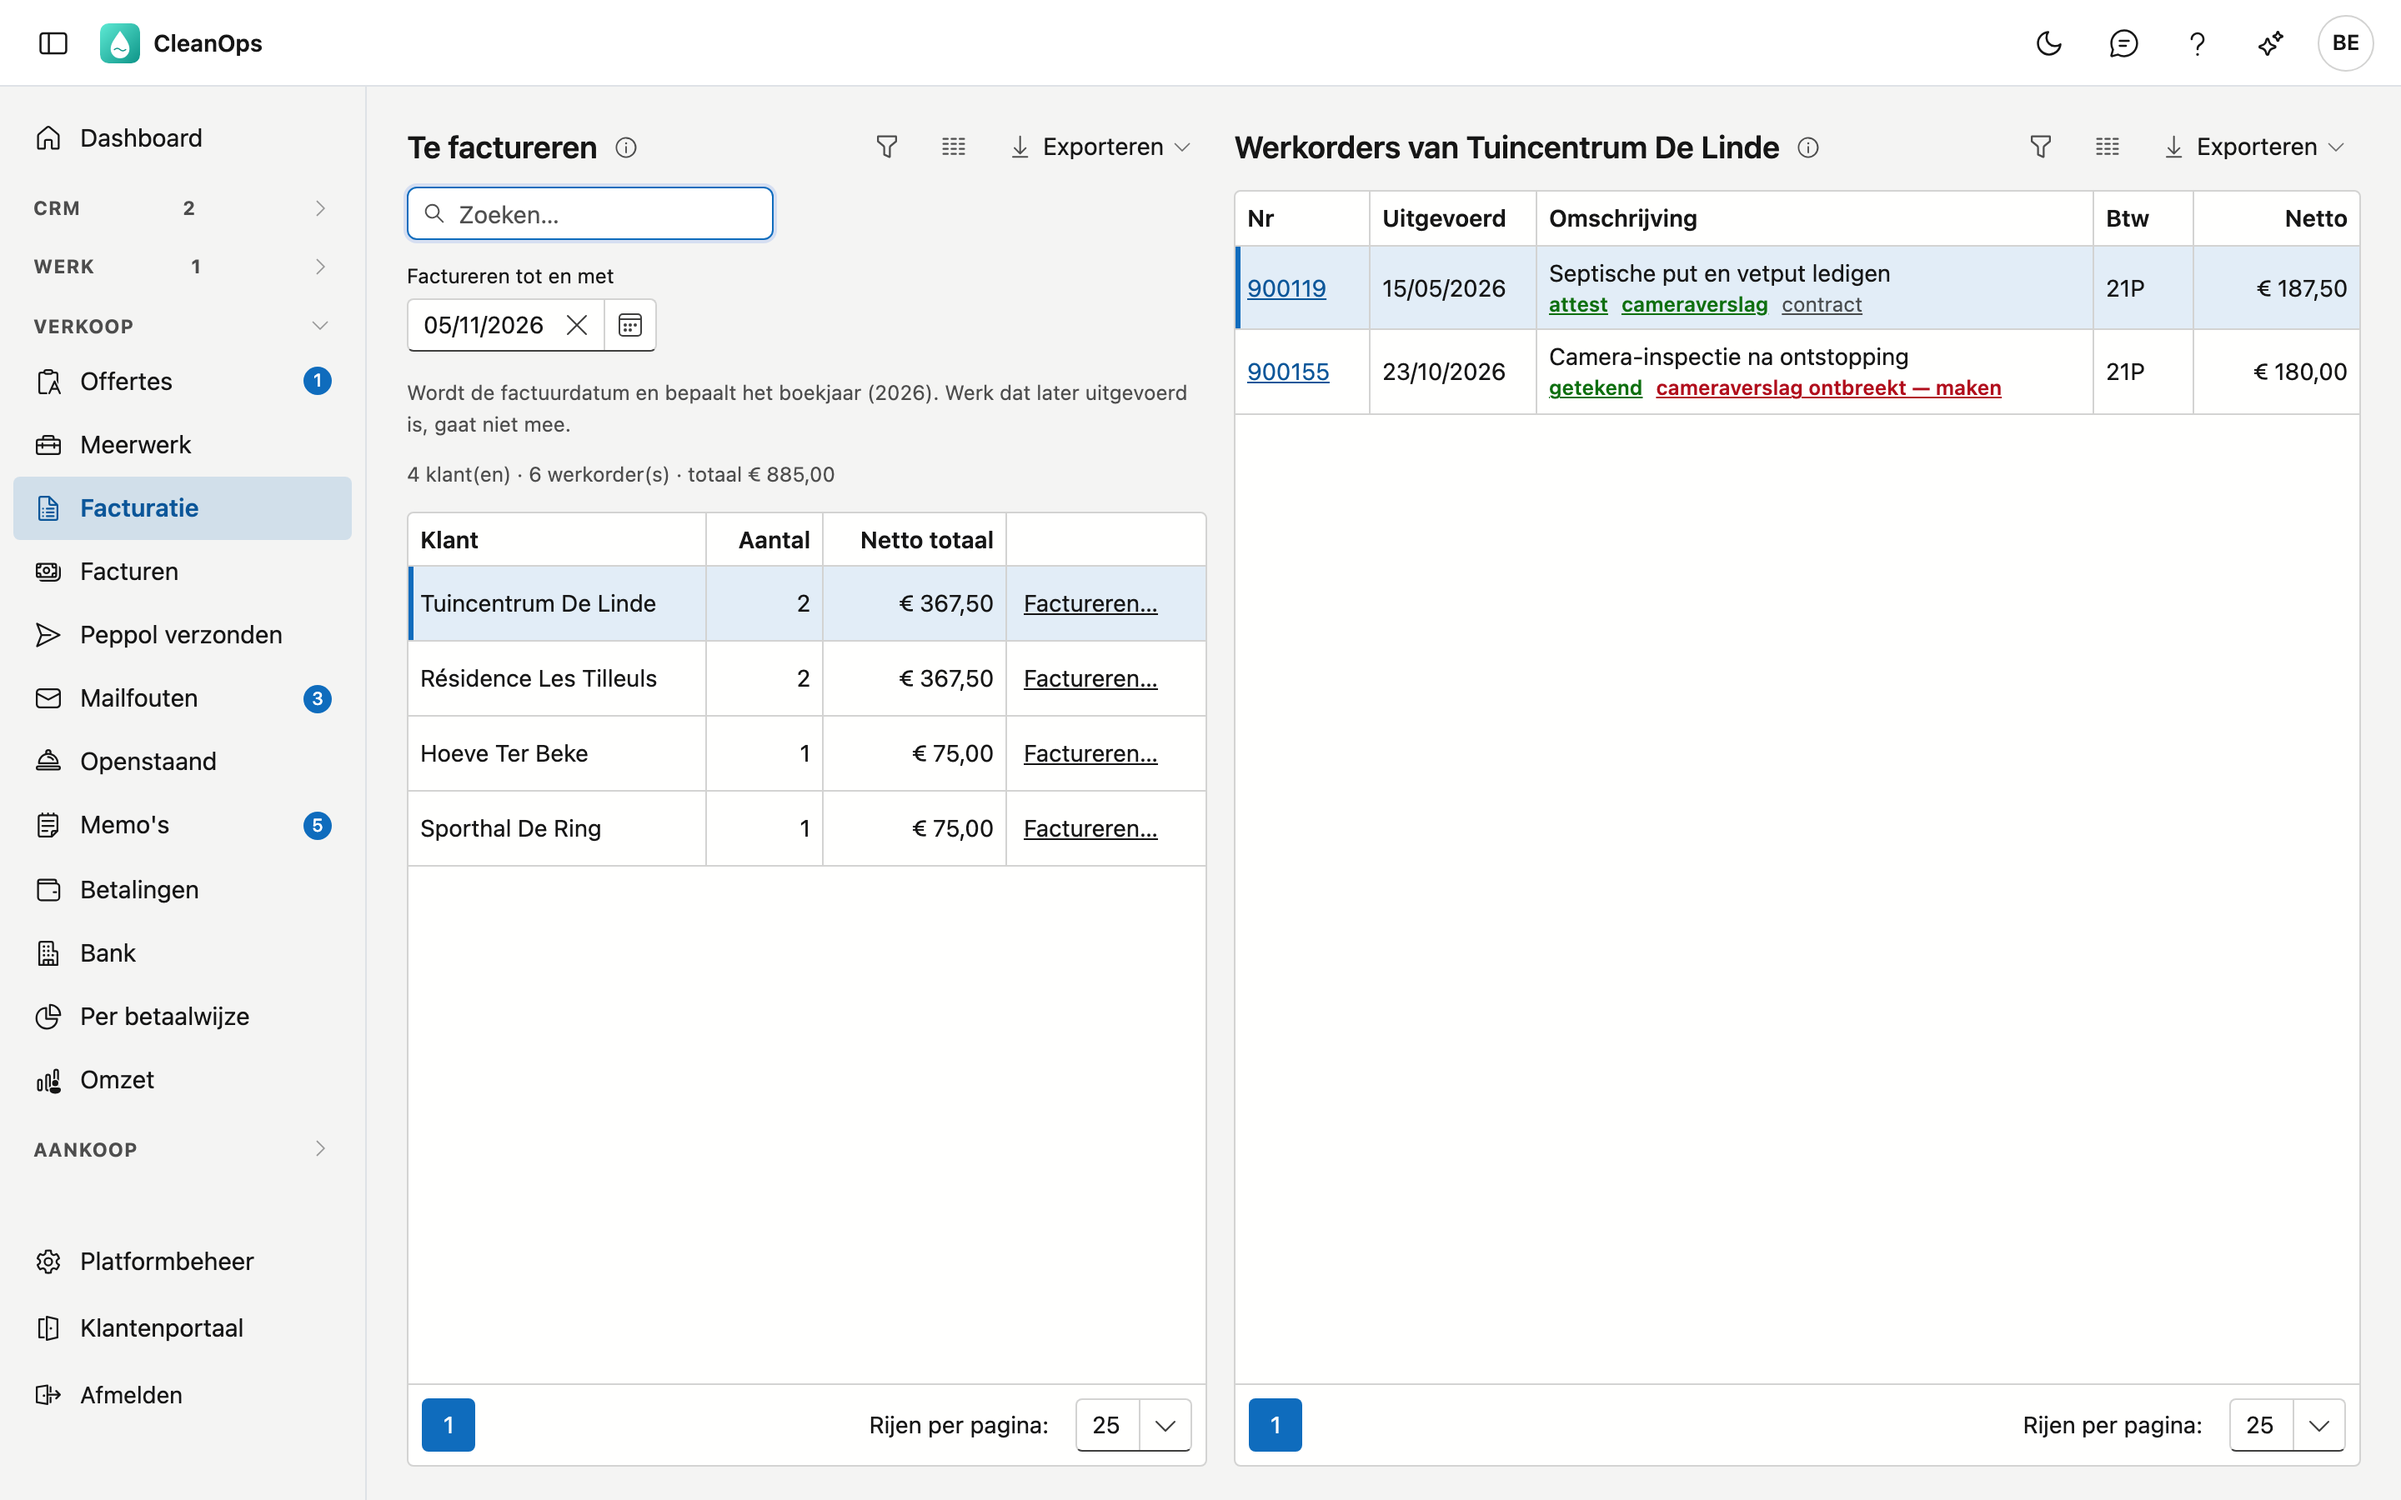
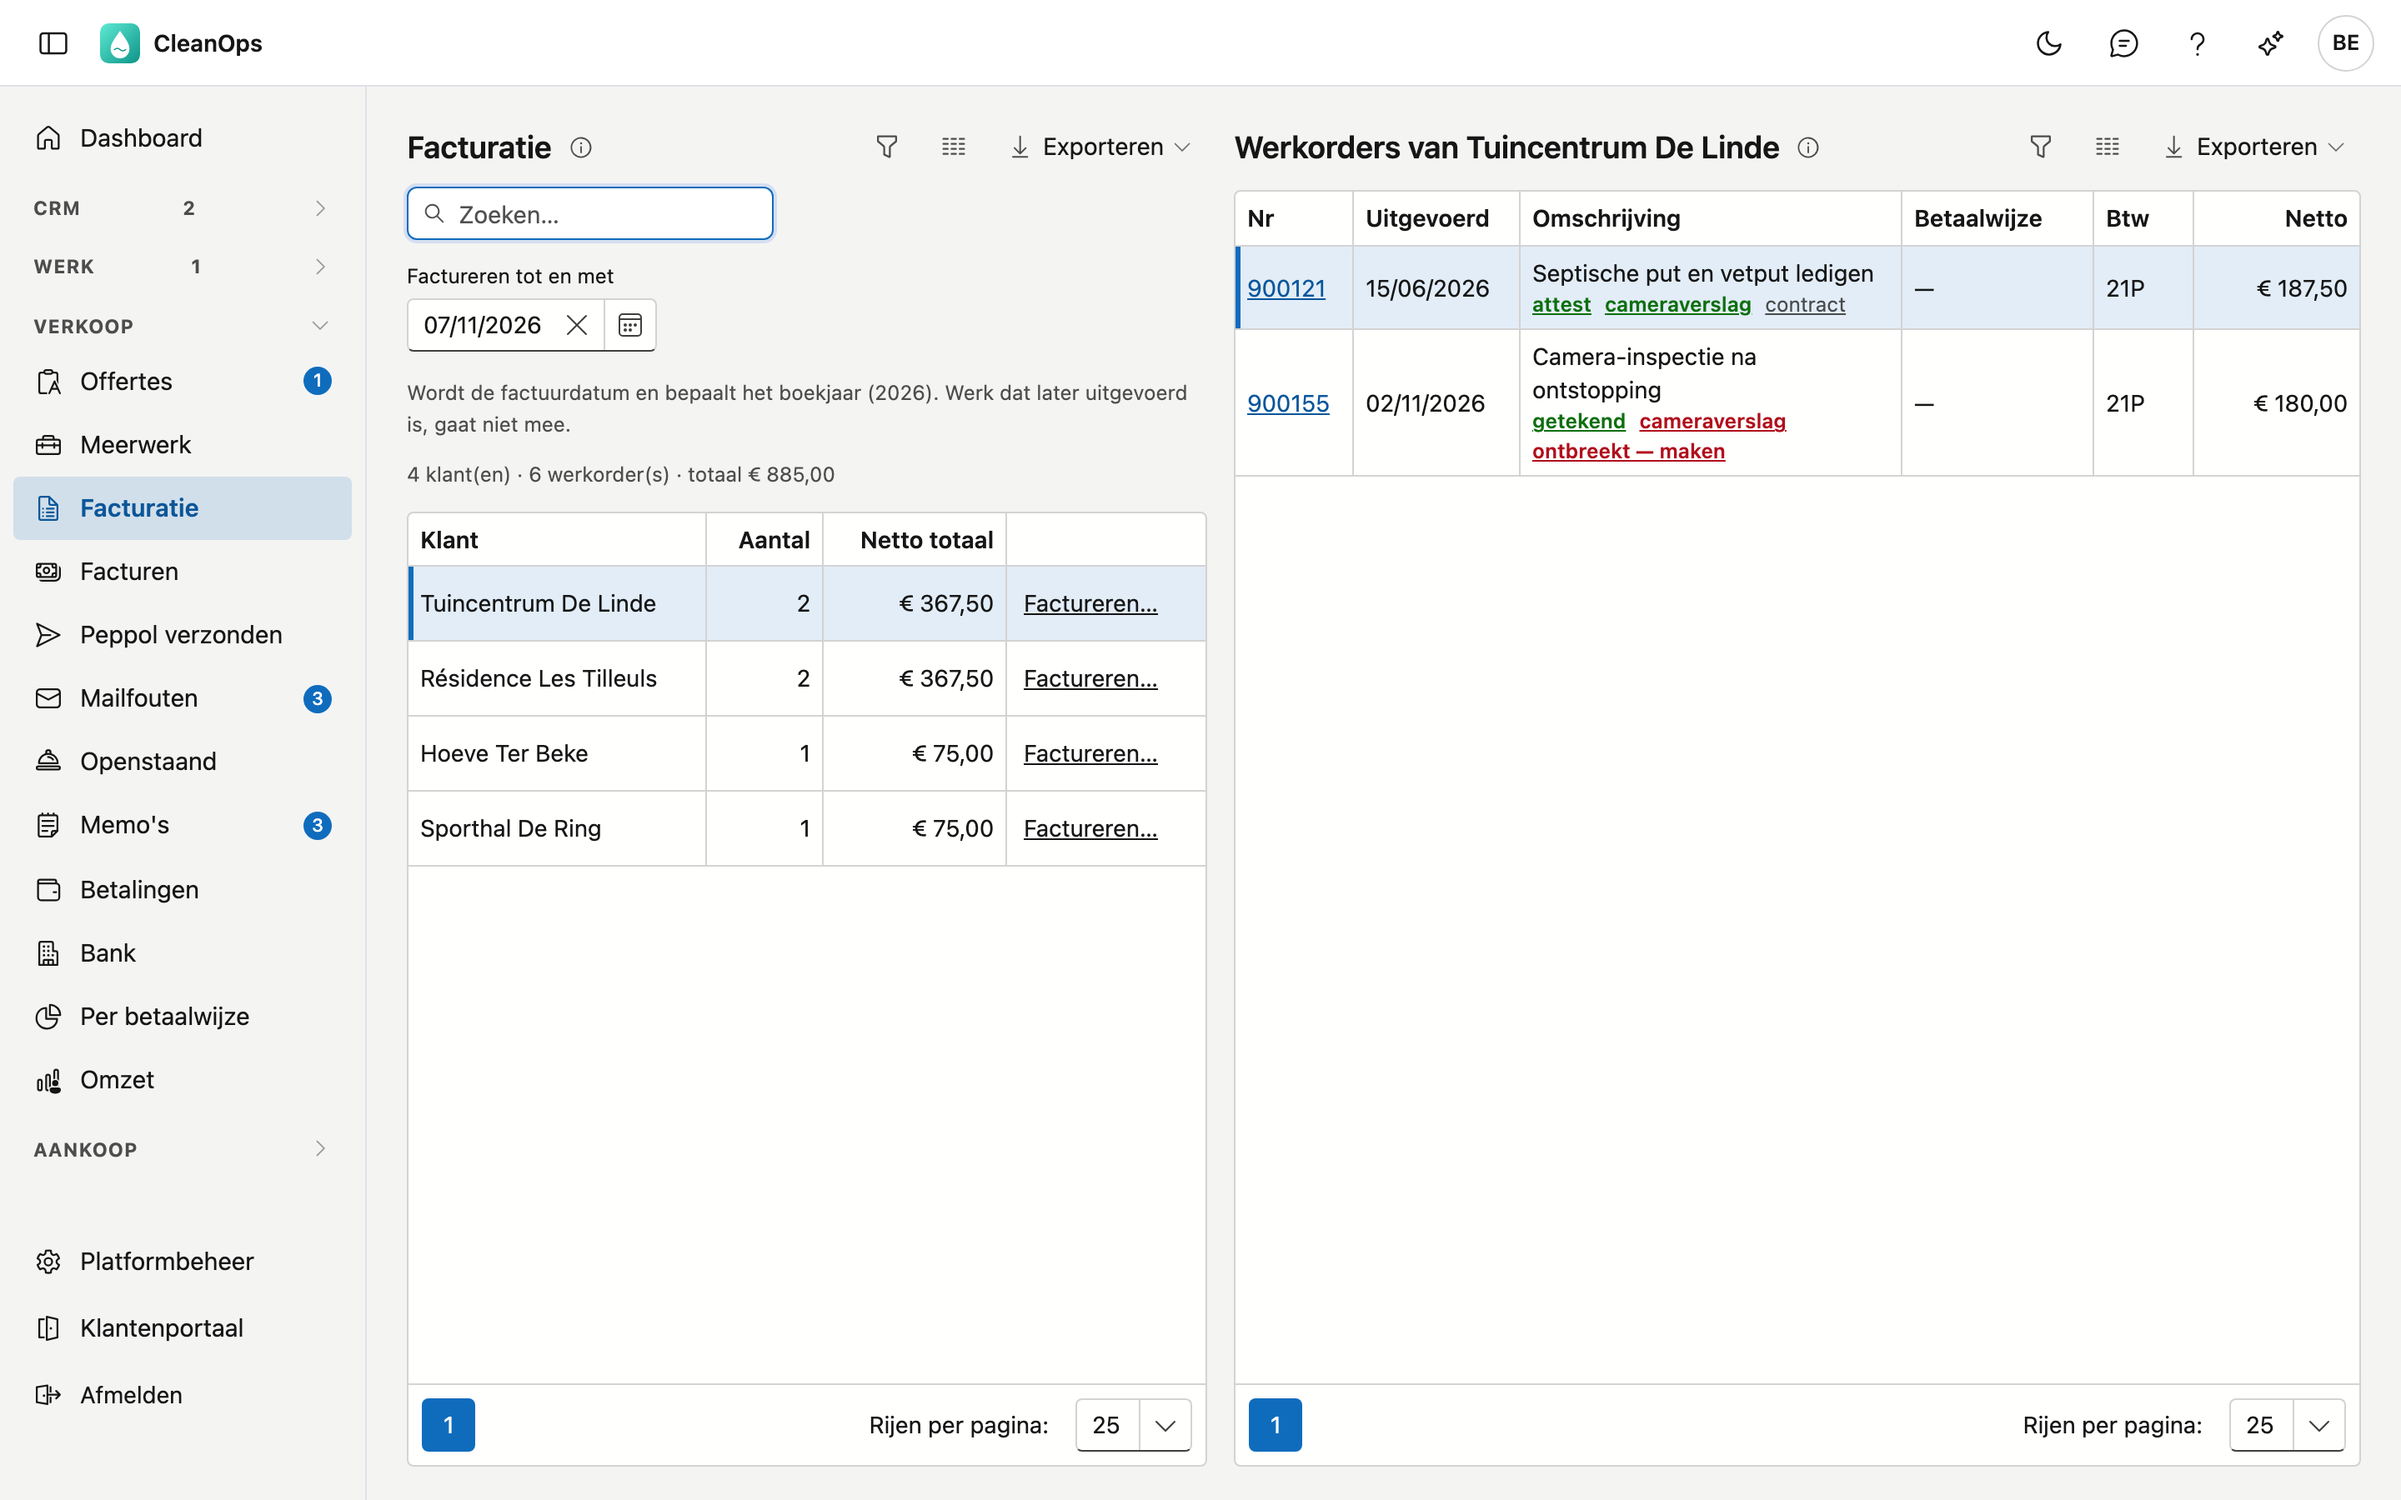
Facturatie: de lijst heet Facturatie zoals het menu, en rechts de kolom Betaalwijze (feedback prospect), NL en FR

diff --git a/docs/facturatie.fr.md b/docs/facturatie.fr.md
@@ -8,7 +8,7 @@ Sur Facturation, vous facturez le travail exécuté. Vous voyez par client les o
 qui va sur la facture et vous la comptabilisez. La facture reçoit immédiatement son numéro, son échéance et sa communication
 structurée.
 
-![La liste À facturer de la démo : à gauche par client les colonnes Ordres et Total net avec le bouton Facturer…, à droite les ordres du client choisi](images/facturatie-lijst-fr.png "Facturation")
+![L'écran Facturation de la démo : à gauche par client les colonnes Ordres et Total net avec le bouton Facturer…, à droite les ordres du client choisi avec leur mode de paiement](images/facturatie-lijst-fr.png "Facturation")
 
 ## Ouvrir l'écran
 
@@ -33,7 +33,9 @@ Le sélecteur de colonnes affiche aussi le **N° client** et l'**Exécution la p
 ### Les ordres de travail d'un client
 
 Cliquez à gauche sur un client, ou parcourez la liste avec les flèches du clavier. À droite, vous voyez aussitôt ses ordres de travail avec le numéro,
-la date d'exécution, la description, le code TVA et le montant. Sous la description figurent les mêmes signaux que dans la fenêtre
+la date d'exécution, la description, le [mode de paiement](beheer/betaalwijzen.fr.md), le code TVA et le montant. Chaque mode de
+paiement donne une facture distincte ; avec la mention *sur place*, CleanOps comptabilise cette facture d'emblée comme payée. Un trait
+signifie que l'ordre n'a pas de mode de paiement. Sous la description figurent les mêmes signaux que dans la fenêtre
 Facturer, par exemple **attestation manquante** ou **sans montant**. Le sélecteur de colonnes affiche aussi la **quantité** et le **prix unitaire**.
 
 Si le client a payé sur place avec un [code QR](beheer/betaalwijzen.fr.md#payer-avec-un-code-qr-sur-place), vous voyez

diff --git a/docs/facturatie.md b/docs/facturatie.md
@@ -7,7 +7,7 @@ description: "Factureren in CleanOps: per klant het uitgevoerde werk kiezen en b
 Op Facturatie maakt u facturen van het uitgevoerde werk. U ziet per klant welke werkorders te factureren zijn, kiest wat er op
 de factuur komt en boekt ze. De factuur krijgt meteen haar nummer, vervaldag en gestructureerde mededeling.
 
-![De lijst Te factureren van de demo: links per klant de kolommen Aantal en Netto totaal met de knop Factureren…, rechts de werkorders van de gekozen klant](images/facturatie-lijst.png "Facturatie")
+![Het scherm Facturatie van de demo: links per klant de kolommen Aantal en Netto totaal met de knop Factureren…, rechts de werkorders van de gekozen klant met hun betaalwijze](images/facturatie-lijst.png "Facturatie")
 
 ## Het scherm openen
 
@@ -31,7 +31,9 @@ Met de kolomkiezer toont u ook het **Klantnr** en de **Oudste uitvoering**: het 
 ### De werkorders van een klant
 
 Klik links op een klant, of ga met de pijltjestoetsen door de lijst. Rechts ziet u meteen zijn werkorders met het nummer, de
-uitvoeringsdatum, de omschrijving, de btw-code en het bedrag. Onder de omschrijving staan dezelfde signalen als in het venster
+uitvoeringsdatum, de omschrijving, de [betaalwijze](beheer/betaalwijzen.md), de btw-code en het bedrag. Elke betaalwijze wordt
+een eigen factuur; staat er *ter plaatse* bij, dan boekt CleanOps die factuur meteen als betaald. Een streep betekent dat de werkorder
+geen betaalwijze heeft. Onder de omschrijving staan dezelfde signalen als in het venster
 Factureren, bijvoorbeeld **attest ontbreekt** of **geen bedrag**. Met de kolomkiezer toont u ook het **aantal** en de **eenheidsprijs**.
 
 Betaalde de klant op het werk met een [betaal-QR](beheer/betaalwijzen.md#betalen-met-een-qr-op-het-werk), dan staat er
